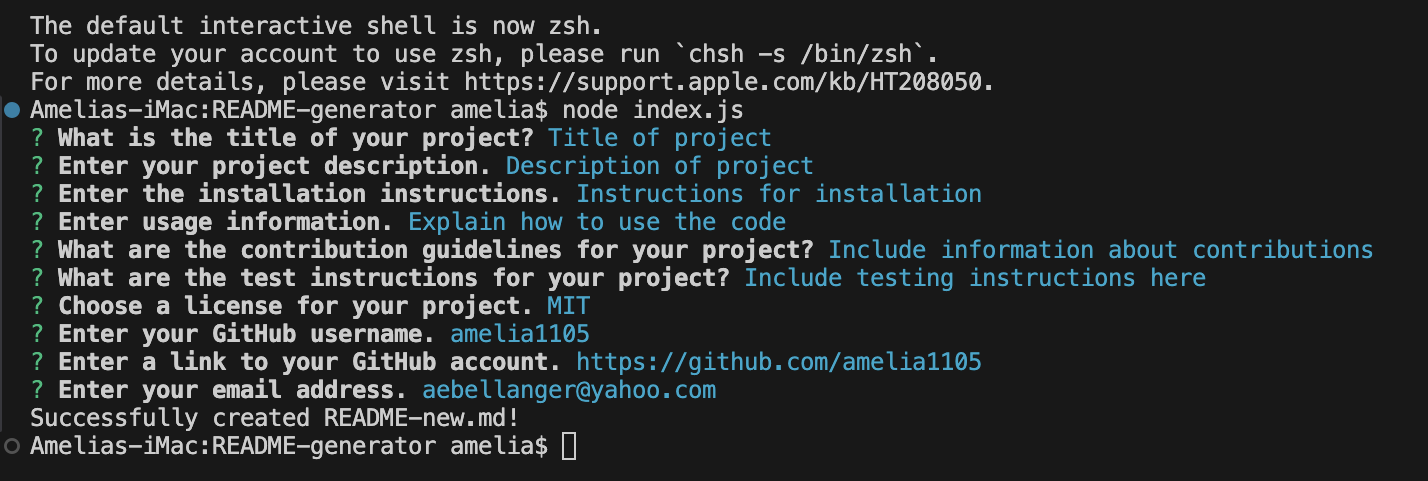
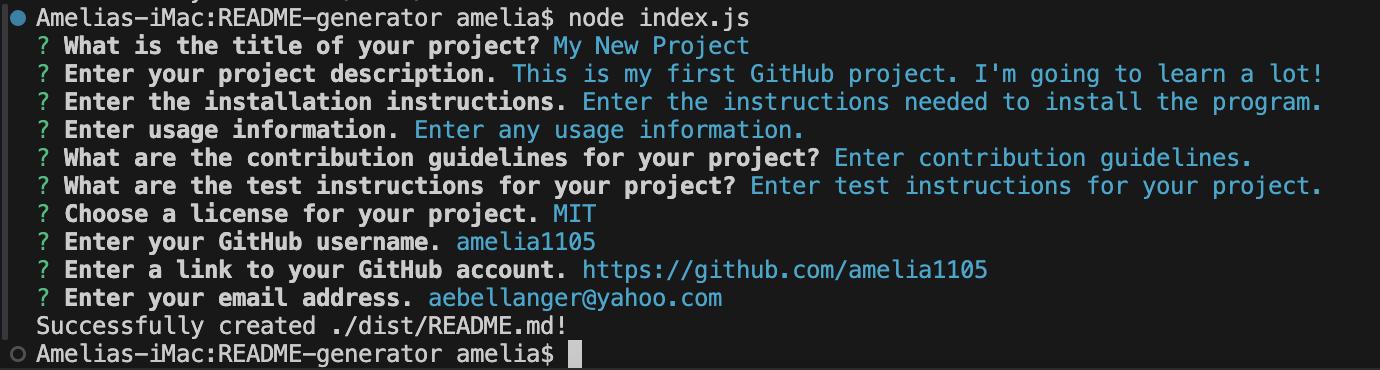
edited index.js to put README.md file in a dist folder, updated README

Changed region(s): [[0.0, 0.0, 0.9659, 1.0]]

diff --git a/index.js b/index.js
@@ -67,9 +67,14 @@ function writeToFile(fileName, data) {
 
 // TODO: Create a function to initialize app
 function init() {
+    const dir = './dist';
+    if (!fs.existsSync(dir)){
+        fs.mkdirSync(dir);
+    }   
     inquirer.prompt(questions).then((answers) => {
         const markdownContent = generateMarkdown(answers);
-        writeToFile('README-new.md', markdownContent);
+        writeToFile(`${dir}/README.md`, markdownContent);
     });
-}
-init(); 
+};
+
+init();

diff --git a/README.md b/README.md
@@ -2,7 +2,7 @@
 
 ## Description
 
-This project was developed for Homework 7 of the Rutgers University Coding Bootcamp program. The goal is to build an application that will allow users to develop a high-quality README file. Using this code and Node.js, the user will be asked a series of questions that they will answer in the command line. A README-new.md file will be created with the user's input in a preset template. This saves the user time and allows them to dedicate more time to the rest of their project. I mainly used JavaScript, Node.js, and Markdown to create this project. This project has not only broadened my knowledge of command line applicability, but it has also taught me how to troubleshoot outside of a browser environment without the help of Chrome DevTools.
+This project was developed for Homework 7 of the Rutgers University Coding Bootcamp program. The goal is to build an application that will allow users to develop a high-quality README file. Using this code and Node.js, the user will be asked a series of questions that they will answer in the command line. A README.md file will be created with the user's input in a preset template. This saves the user time and allows them to dedicate more time to the rest of their project. I mainly used JavaScript, Node.js, and Markdown to create this project. This project has not only broadened my knowledge of command line applicability, but it has also taught me how to troubleshoot outside of a browser environment without the help of Chrome DevTools.
 
 ## Table of Contents
 
@@ -39,25 +39,25 @@ This project was developed for Homework 7 of the Rutgers University Coding Bootc
 
 2. You should then be prompted to answer a series of questions. Type in your answers and press enter. For the license, use the arrow keys to scroll through the list, and use enter to select a license.
 
-    ```md
-    ![screenshot of terminal demonstrating which licenses are available](./assets/license-choices.png)
-    ```
+    ![screenshot of terminal demonstrating which licenses are available](./assets/license-choice.png)
 
-3. After answering all of these questions, you should see "Successfully created README-new.md!" in the command line, and a README-new.md file should be created in your directory with the information you've entered. 
+3. After answering all of these questions, you should see "Successfully created ./dist/README.md!" in the command line.
 
-    ```md
     ![screenshot of terminal showing that information was entered successfully](./assets/success.png)
-    ```
 
-    ```md
-    ![screenshot of README-new.md file](./assets/new-readme.png)
-    ```
+    A dist folder will be created (or updated) with the new README.md file containing all the information that was entered. 
+    
+    ![screenshot of README.md file](./assets/dist-folder.png)
+
+    New README.md:
+
+    ![screenshot of README.md file](./assets/new-readme.png)
 
 4. You can copy and paste this file into your new project directory. Edit and add or remove sections as needed.
 
-    ```md
-    ![screenshot showing newly created README-new.md used in a sample repo](./assets/sample-repo.png)
-    ```
+    Pasted into a 'sample' directory:
+    
+    ![screenshot showing newly created README-new.md used in a sample repo](./assets/paste-sample.png)
 
 ## License
 
